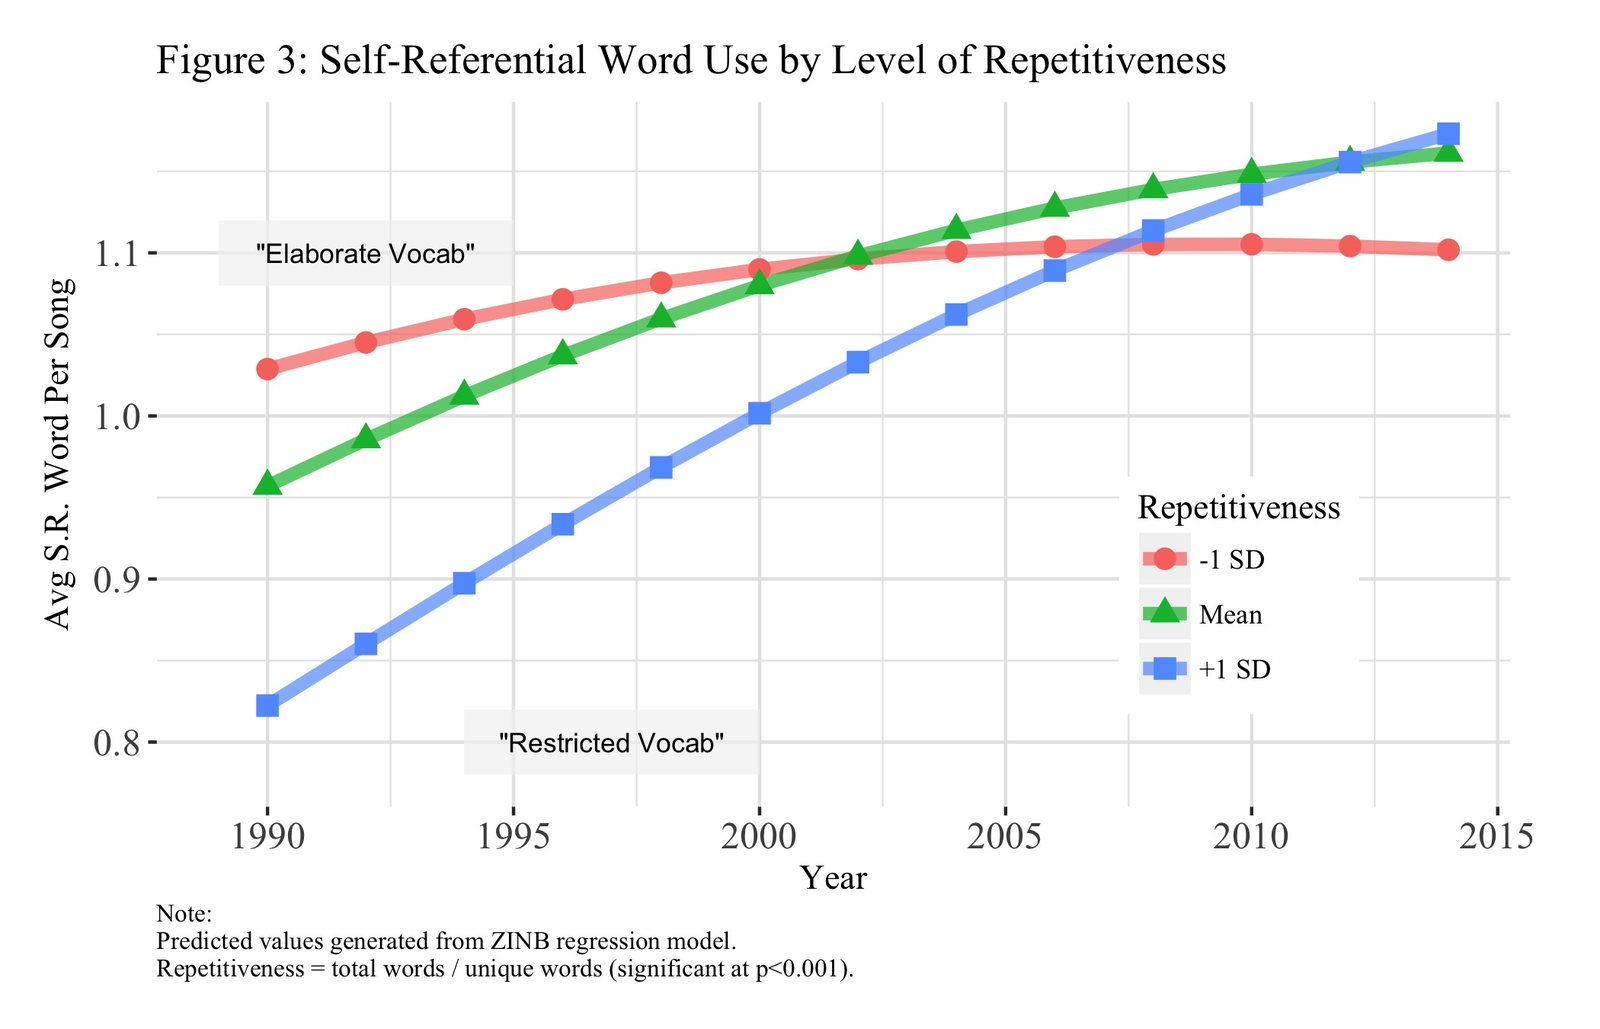
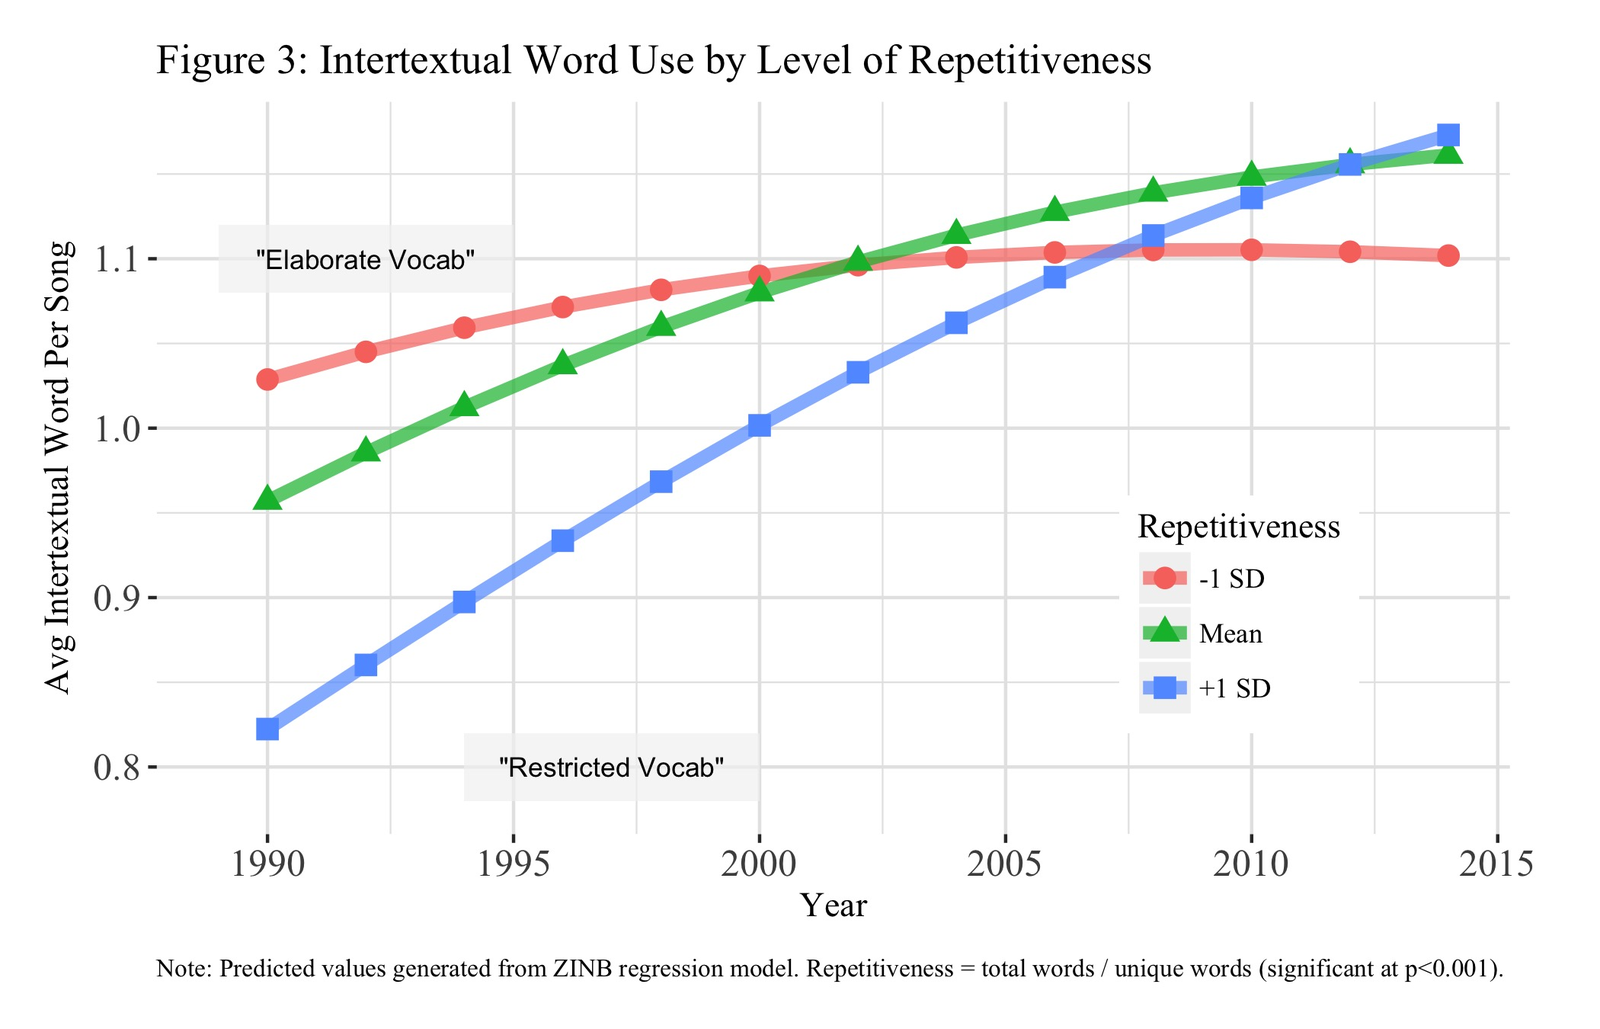
updating CM paper after submission

diff --git a/public/research/country-music/index.html b/public/research/country-music/index.html
@@ -10,11 +10,11 @@
 <meta name="referrer" content="no-referrer">
 <meta name="author" content="John A. Bernau">
 <meta name="description" content="John A. Bernau
-ABSTRACT: This article examines the rise of “self-references” in contemporary country music lyrics - descriptions of a ‘country’ lifestyle, specific styles of music consumption, or reference to famous artists. Using a dataset of 27,384 songs from 1989-2014, I show how these words constitute a meta-cultural practice that constructs and maintains genre boundaries, authenticity, and consecration. Becoming increasingly prevalent since the 1990s, self-references are also more likely to appear in debut albums, songs by Hall-of-Fame artists, and highly repetitive songs, while less likely to appear after Presidential elections.">
+ABSTRACT: This article examines how artistic communities use linguistic codes to signal group membership and police boundaries. Specifically, I examine the contemporary rise of self-reflexive intertextuality in modern country music: songs about specific styles of music consumption, other canonical artists, or “country music” itself. I argue this can be understood as a response to increased genre fuzziness and rising demographic diversity among country audiences. Using an original dataset of 27,682 songs from 1989-2014, I employ dictionary-based computational text analysis to examine this theme over time and in relation to a variety of factors, include artist gender, career status, commercial success, linguistic repetition, and political environment.">
 
-<meta property="og:title" content="Meta-Sounds in Modern Country Music: Lyrical Self-References and Boundary Work 1989-2014" />
+<meta property="og:title" content="Meta-Sounds in Modern Country Music: Lyrical Intertextuality as Boundary Work 1989-2014" />
 <meta property="og:description" content="John A. Bernau
-ABSTRACT: This article examines the rise of “self-references” in contemporary country music lyrics - descriptions of a ‘country’ lifestyle, specific styles of music consumption, or reference to famous artists. Using a dataset of 27,384 songs from 1989-2014, I show how these words constitute a meta-cultural practice that constructs and maintains genre boundaries, authenticity, and consecration. Becoming increasingly prevalent since the 1990s, self-references are also more likely to appear in debut albums, songs by Hall-of-Fame artists, and highly repetitive songs, while less likely to appear after Presidential elections." />
+ABSTRACT: This article examines how artistic communities use linguistic codes to signal group membership and police boundaries. Specifically, I examine the contemporary rise of self-reflexive intertextuality in modern country music: songs about specific styles of music consumption, other canonical artists, or “country music” itself. I argue this can be understood as a response to increased genre fuzziness and rising demographic diversity among country audiences. Using an original dataset of 27,682 songs from 1989-2014, I employ dictionary-based computational text analysis to examine this theme over time and in relation to a variety of factors, include artist gender, career status, commercial success, linguistic repetition, and political environment." />
 <meta property="og:type" content="article" />
 <meta property="og:url" content="/research/country-music/" />
 
@@ -38,7 +38,7 @@ ABSTRACT: This article examines the rise of “self-references” in contemporar
 <title>
 
 
-     Meta-Sounds in Modern Country Music: Lyrical Self-References and Boundary Work 1989-2014 
+     Meta-Sounds in Modern Country Music: Lyrical Intertextuality as Boundary Work 1989-2014 
 
 </title>
 <link rel="canonical" href="/research/country-music/">
@@ -59,11 +59,11 @@ ABSTRACT: This article examines the rise of “self-references” in contemporar
 
 
     
-    <link rel="stylesheet" href="/css/reset.css?t=2018-06-07%2018%3a43%3a48.465486%20-0400%20EDT%20m%3d%2b0.272755363">
-    <link rel="stylesheet" href="/css/pygments.css?t=2018-06-07%2018%3a43%3a48.465486%20-0400%20EDT%20m%3d%2b0.272755363">
-    <link rel="stylesheet" href="/css/main.css?t=2018-06-07%2018%3a43%3a48.465486%20-0400%20EDT%20m%3d%2b0.272755363">
+    <link rel="stylesheet" href="/css/reset.css?t=2018-06-13%2018%3a56%3a53.770756%20-0400%20EDT%20m%3d%2b0.308476131">
+    <link rel="stylesheet" href="/css/pygments.css?t=2018-06-13%2018%3a56%3a53.770756%20-0400%20EDT%20m%3d%2b0.308476131">
+    <link rel="stylesheet" href="/css/main.css?t=2018-06-13%2018%3a56%3a53.770756%20-0400%20EDT%20m%3d%2b0.308476131">
     
-        <link rel="stylesheet" href="/css/override.css?t=2018-06-07%2018%3a43%3a48.465486%20-0400%20EDT%20m%3d%2b0.272755363">
+        <link rel="stylesheet" href="/css/override.css?t=2018-06-13%2018%3a56%3a53.770756%20-0400%20EDT%20m%3d%2b0.308476131">
     
 
 
@@ -187,14 +187,14 @@ ABSTRACT: This article examines the rise of “self-references” in contemporar
         <div class="content">
             <div class="page-heading">
 
-    Meta-Sounds in Modern Country Music: Lyrical Self-References and Boundary Work 1989-2014
+    Meta-Sounds in Modern Country Music: Lyrical Intertextuality as Boundary Work 1989-2014
 
 </div>
 
             <div class="markdown">
                 <p>John A. Bernau</p>
-<p>ABSTRACT: This article examines the rise of “self-references” in contemporary country music lyrics - descriptions of a ‘country’ lifestyle, specific styles of music consumption, or reference to famous artists. Using a dataset of 27,384 songs from 1989-2014, I show how these words constitute a meta-cultural practice that constructs and maintains genre boundaries, authenticity, and consecration. Becoming increasingly prevalent since the 1990s, self-references are also more likely to appear in debut albums, songs by Hall-of-Fame artists, and highly repetitive songs, while less likely to appear after Presidential elections. In sum, today’s artists use self-references to draw and perpetuate socio-cultural boundaries.</p>
-<p><em>Under Review</em> May 2018</p>
+<p>ABSTRACT: This article examines how artistic communities use linguistic codes to signal group membership and police boundaries. Specifically, I examine the contemporary rise of self-reflexive intertextuality in modern country music: songs about specific styles of music consumption, other canonical artists, or “country music” itself. I argue this can be understood as a response to increased genre fuzziness and rising demographic diversity among country audiences. Using an original dataset of 27,682 songs from 1989-2014, I employ dictionary-based computational text analysis to examine this theme over time and in relation to a variety of factors, include artist gender, career status, commercial success, linguistic repetition, and political environment. Becoming increasingly prevalent since 1990, intertextual themes appear most often in songs by male artists, on debut albums, and by artists <em>before</em> their induction in the Country Music Hall of Fame. Furthermore, songs on the Billboard Year-End Country charts and those with a high degree of linguistic repetition are significantly more likely to evoke intertextual themes; a relationship that only emerged in the last fifteen years. In this way, lyrical intertextuality is situated as a distinctly modern solution to a perennial social problem: how do groups construct and maintain identity boundaries within a changing social environment?</p>
+<p><em>Under Review</em> June 2018</p>
 <hr />
 <p><strong>Selected Plots</strong></p>
 <p><img src="/research/cm_sr1.jpg" /> <img src="/research/cm_sr2.jpg" /> <img src="/research/cm_sr3.jpg" /></p>

diff --git a/content/research/2018-04-17-country-music.html b/content/research/2018-04-17-country-music.html
@@ -1,5 +1,5 @@
 ---
-title: "Meta-Sounds in Modern Country Music: Lyrical Self-References and Boundary Work 1989-2014"
+title: "Meta-Sounds in Modern Country Music: Lyrical Intertextuality as Boundary Work 1989-2014"
 author: John A. Bernau
 date: '2018-04-17'
 slug: country-music
@@ -10,8 +10,8 @@ tags: []
 
 
 <p>John A. Bernau</p>
-<p>ABSTRACT: This article examines the rise of “self-references” in contemporary country music lyrics - descriptions of a ‘country’ lifestyle, specific styles of music consumption, or reference to famous artists. Using a dataset of 27,384 songs from 1989-2014, I show how these words constitute a meta-cultural practice that constructs and maintains genre boundaries, authenticity, and consecration. Becoming increasingly prevalent since the 1990s, self-references are also more likely to appear in debut albums, songs by Hall-of-Fame artists, and highly repetitive songs, while less likely to appear after Presidential elections. In sum, today’s artists use self-references to draw and perpetuate socio-cultural boundaries.</p>
-<p><em>Under Review</em> May 2018</p>
+<p>ABSTRACT: This article examines how artistic communities use linguistic codes to signal group membership and police boundaries. Specifically, I examine the contemporary rise of self-reflexive intertextuality in modern country music: songs about specific styles of music consumption, other canonical artists, or “country music” itself. I argue this can be understood as a response to increased genre fuzziness and rising demographic diversity among country audiences. Using an original dataset of 27,682 songs from 1989-2014, I employ dictionary-based computational text analysis to examine this theme over time and in relation to a variety of factors, include artist gender, career status, commercial success, linguistic repetition, and political environment. Becoming increasingly prevalent since 1990, intertextual themes appear most often in songs by male artists, on debut albums, and by artists <em>before</em> their induction in the Country Music Hall of Fame. Furthermore, songs on the Billboard Year-End Country charts and those with a high degree of linguistic repetition are significantly more likely to evoke intertextual themes; a relationship that only emerged in the last fifteen years. In this way, lyrical intertextuality is situated as a distinctly modern solution to a perennial social problem: how do groups construct and maintain identity boundaries within a changing social environment?</p>
+<p><em>Under Review</em> June 2018</p>
 <hr />
 <p><strong>Selected Plots</strong></p>
 <p><img src="/research/cm_sr1.jpg" /> <img src="/research/cm_sr2.jpg" /> <img src="/research/cm_sr3.jpg" /></p>

diff --git a/public/xresearch/index.html b/public/xresearch/index.html
@@ -10,7 +10,7 @@
 <meta name="referrer" content="no-referrer">
 <meta name="author" content="John A. Bernau">
 <meta name="description" content=" Publications Under Review
- May 2018 - Meta-Sounds in Modern Country Music
+ June 2018 - Meta-Sounds in Modern Country Music
  March 2018 - How Do Modern States Culturally Respond to Disasters?  Manuscripts in Progress
  Sad Songs &amp; Waltzes: Country Music Sentiment and Chart Performance
   Dissertation Research
@@ -18,7 +18,7 @@
 
 <meta property="og:title" content="Research" />
 <meta property="og:description" content=" Publications Under Review
- May 2018 - Meta-Sounds in Modern Country Music
+ June 2018 - Meta-Sounds in Modern Country Music
  March 2018 - How Do Modern States Culturally Respond to Disasters?  Manuscripts in Progress
  Sad Songs &amp; Waltzes: Country Music Sentiment and Chart Performance
   Dissertation Research
@@ -67,11 +67,11 @@
 
 
     
-    <link rel="stylesheet" href="/css/reset.css?t=2018-06-07%2018%3a43%3a48.474031%20-0400%20EDT%20m%3d%2b0.281298526">
-    <link rel="stylesheet" href="/css/pygments.css?t=2018-06-07%2018%3a43%3a48.474031%20-0400%20EDT%20m%3d%2b0.281298526">
-    <link rel="stylesheet" href="/css/main.css?t=2018-06-07%2018%3a43%3a48.474031%20-0400%20EDT%20m%3d%2b0.281298526">
+    <link rel="stylesheet" href="/css/reset.css?t=2018-06-13%2018%3a56%3a53.772194%20-0400%20EDT%20m%3d%2b0.309914121">
+    <link rel="stylesheet" href="/css/pygments.css?t=2018-06-13%2018%3a56%3a53.772194%20-0400%20EDT%20m%3d%2b0.309914121">
+    <link rel="stylesheet" href="/css/main.css?t=2018-06-13%2018%3a56%3a53.772194%20-0400%20EDT%20m%3d%2b0.309914121">
     
-        <link rel="stylesheet" href="/css/override.css?t=2018-06-07%2018%3a43%3a48.474031%20-0400%20EDT%20m%3d%2b0.281298526">
+        <link rel="stylesheet" href="/css/override.css?t=2018-06-13%2018%3a56%3a53.772194%20-0400%20EDT%20m%3d%2b0.309914121">
     
 
 
@@ -205,7 +205,7 @@
 <p><strong>Publications Under Review</strong></p>
 
 <ul>
-<li>May 2018  - <a href="/research/country-music">Meta-Sounds in Modern Country Music</a><br /></li>
+<li>June 2018  - <a href="/research/country-music">Meta-Sounds in Modern Country Music</a><br /></li>
 <li>March 2018  - <a href="/research/sympathetic-leviathan">How Do Modern States Culturally Respond to Disasters?</a></li>
 </ul>
 

diff --git a/public/research/index.html b/public/research/index.html
@@ -54,11 +54,11 @@
 
 
     
-    <link rel="stylesheet" href="/css/reset.css?t=2018-06-07%2018%3a43%3a48.479619%20-0400%20EDT%20m%3d%2b0.286885524">
-    <link rel="stylesheet" href="/css/pygments.css?t=2018-06-07%2018%3a43%3a48.479619%20-0400%20EDT%20m%3d%2b0.286885524">
-    <link rel="stylesheet" href="/css/main.css?t=2018-06-07%2018%3a43%3a48.479619%20-0400%20EDT%20m%3d%2b0.286885524">
+    <link rel="stylesheet" href="/css/reset.css?t=2018-06-13%2018%3a56%3a53.778512%20-0400%20EDT%20m%3d%2b0.316231350">
+    <link rel="stylesheet" href="/css/pygments.css?t=2018-06-13%2018%3a56%3a53.778512%20-0400%20EDT%20m%3d%2b0.316231350">
+    <link rel="stylesheet" href="/css/main.css?t=2018-06-13%2018%3a56%3a53.778512%20-0400%20EDT%20m%3d%2b0.316231350">
     
-        <link rel="stylesheet" href="/css/override.css?t=2018-06-07%2018%3a43%3a48.479619%20-0400%20EDT%20m%3d%2b0.286885524">
+        <link rel="stylesheet" href="/css/override.css?t=2018-06-13%2018%3a56%3a53.778512%20-0400%20EDT%20m%3d%2b0.316231350">
     
 
 
@@ -193,7 +193,7 @@
             <nav class="section-items">
                 <ul>
                 
-                    <li><a href="/research/country-music/">Meta-Sounds in Modern Country Music: Lyrical Self-References and Boundary Work 1989-2014</a></li>
+                    <li><a href="/research/country-music/">Meta-Sounds in Modern Country Music: Lyrical Intertextuality as Boundary Work 1989-2014</a></li>
                 
                     <li><a href="/research/sympathetic-leviathan/">The Sympathetic Leviathan: How Do Modern States Culturally Respond to Disasters</a></li>
                 

diff --git a/public/blog/ajs_v123n4/index.html b/public/blog/ajs_v123n4/index.html
@@ -59,11 +59,11 @@ Summary: The author uses ethnographic data to examine the role of emotions in th
 
 
     
-    <link rel="stylesheet" href="/css/reset.css?t=2018-06-07%2018%3a43%3a48.461626%20-0400%20EDT%20m%3d%2b0.268896399">
-    <link rel="stylesheet" href="/css/pygments.css?t=2018-06-07%2018%3a43%3a48.461626%20-0400%20EDT%20m%3d%2b0.268896399">
-    <link rel="stylesheet" href="/css/main.css?t=2018-06-07%2018%3a43%3a48.461626%20-0400%20EDT%20m%3d%2b0.268896399">
+    <link rel="stylesheet" href="/css/reset.css?t=2018-06-13%2018%3a56%3a53.760445%20-0400%20EDT%20m%3d%2b0.298165825">
+    <link rel="stylesheet" href="/css/pygments.css?t=2018-06-13%2018%3a56%3a53.760445%20-0400%20EDT%20m%3d%2b0.298165825">
+    <link rel="stylesheet" href="/css/main.css?t=2018-06-13%2018%3a56%3a53.760445%20-0400%20EDT%20m%3d%2b0.298165825">
     
-        <link rel="stylesheet" href="/css/override.css?t=2018-06-07%2018%3a43%3a48.461626%20-0400%20EDT%20m%3d%2b0.268896399">
+        <link rel="stylesheet" href="/css/override.css?t=2018-06-13%2018%3a56%3a53.760445%20-0400%20EDT%20m%3d%2b0.298165825">
     
 
 

diff --git a/public/blog/cherlin2010/index.html b/public/blog/cherlin2010/index.html
@@ -61,11 +61,11 @@ Cherlin’s discussion of marriage in the 1950s and 1960s overlays much of popul
 
 
     
-    <link rel="stylesheet" href="/css/reset.css?t=2018-06-07%2018%3a43%3a48.454469%20-0400%20EDT%20m%3d%2b0.261739843">
-    <link rel="stylesheet" href="/css/pygments.css?t=2018-06-07%2018%3a43%3a48.454469%20-0400%20EDT%20m%3d%2b0.261739843">
-    <link rel="stylesheet" href="/css/main.css?t=2018-06-07%2018%3a43%3a48.454469%20-0400%20EDT%20m%3d%2b0.261739843">
+    <link rel="stylesheet" href="/css/reset.css?t=2018-06-13%2018%3a56%3a53.758397%20-0400%20EDT%20m%3d%2b0.296117112">
+    <link rel="stylesheet" href="/css/pygments.css?t=2018-06-13%2018%3a56%3a53.758397%20-0400%20EDT%20m%3d%2b0.296117112">
+    <link rel="stylesheet" href="/css/main.css?t=2018-06-13%2018%3a56%3a53.758397%20-0400%20EDT%20m%3d%2b0.296117112">
     
-        <link rel="stylesheet" href="/css/override.css?t=2018-06-07%2018%3a43%3a48.454469%20-0400%20EDT%20m%3d%2b0.261739843">
+        <link rel="stylesheet" href="/css/override.css?t=2018-06-13%2018%3a56%3a53.758397%20-0400%20EDT%20m%3d%2b0.296117112">
     
 
 

diff --git a/public/code/baylor/index.html b/public/code/baylor/index.html
@@ -61,11 +61,11 @@ require(&quot;tidyverse&quot;) require(&quot;foreign&quot;) require(&quot;psych&
 
 
     
-    <link rel="stylesheet" href="/css/reset.css?t=2018-06-07%2018%3a43%3a48.471379%20-0400%20EDT%20m%3d%2b0.278647569">
-    <link rel="stylesheet" href="/css/pygments.css?t=2018-06-07%2018%3a43%3a48.471379%20-0400%20EDT%20m%3d%2b0.278647569">
-    <link rel="stylesheet" href="/css/main.css?t=2018-06-07%2018%3a43%3a48.471379%20-0400%20EDT%20m%3d%2b0.278647569">
+    <link rel="stylesheet" href="/css/reset.css?t=2018-06-13%2018%3a56%3a53.770842%20-0400%20EDT%20m%3d%2b0.308561840">
+    <link rel="stylesheet" href="/css/pygments.css?t=2018-06-13%2018%3a56%3a53.770842%20-0400%20EDT%20m%3d%2b0.308561840">
+    <link rel="stylesheet" href="/css/main.css?t=2018-06-13%2018%3a56%3a53.770842%20-0400%20EDT%20m%3d%2b0.308561840">
     
-        <link rel="stylesheet" href="/css/override.css?t=2018-06-07%2018%3a43%3a48.471379%20-0400%20EDT%20m%3d%2b0.278647569">
+        <link rel="stylesheet" href="/css/override.css?t=2018-06-13%2018%3a56%3a53.770842%20-0400%20EDT%20m%3d%2b0.308561840">
     
 
 

diff --git a/public/research/sympathetic-leviathan/index.html b/public/research/sympathetic-leviathan/index.html
@@ -59,11 +59,11 @@ ABSTRACT: While events are central to the sociology of the state, natural disast
 
 
     
-    <link rel="stylesheet" href="/css/reset.css?t=2018-06-07%2018%3a43%3a48.474783%20-0400%20EDT%20m%3d%2b0.282051269">
-    <link rel="stylesheet" href="/css/pygments.css?t=2018-06-07%2018%3a43%3a48.474783%20-0400%20EDT%20m%3d%2b0.282051269">
-    <link rel="stylesheet" href="/css/main.css?t=2018-06-07%2018%3a43%3a48.474783%20-0400%20EDT%20m%3d%2b0.282051269">
+    <link rel="stylesheet" href="/css/reset.css?t=2018-06-13%2018%3a56%3a53.774728%20-0400%20EDT%20m%3d%2b0.312448126">
+    <link rel="stylesheet" href="/css/pygments.css?t=2018-06-13%2018%3a56%3a53.774728%20-0400%20EDT%20m%3d%2b0.312448126">
+    <link rel="stylesheet" href="/css/main.css?t=2018-06-13%2018%3a56%3a53.774728%20-0400%20EDT%20m%3d%2b0.312448126">
     
-        <link rel="stylesheet" href="/css/override.css?t=2018-06-07%2018%3a43%3a48.474783%20-0400%20EDT%20m%3d%2b0.282051269">
+        <link rel="stylesheet" href="/css/override.css?t=2018-06-13%2018%3a56%3a53.774728%20-0400%20EDT%20m%3d%2b0.312448126">
     
 
 

diff --git a/public/teaching/sor/index.html b/public/teaching/sor/index.html
@@ -59,11 +59,11 @@ This course offers an introduction to the sociological study of religion. As a d
 
 
     
-    <link rel="stylesheet" href="/css/reset.css?t=2018-06-07%2018%3a43%3a48.471248%20-0400%20EDT%20m%3d%2b0.278516766">
-    <link rel="stylesheet" href="/css/pygments.css?t=2018-06-07%2018%3a43%3a48.471248%20-0400%20EDT%20m%3d%2b0.278516766">
-    <link rel="stylesheet" href="/css/main.css?t=2018-06-07%2018%3a43%3a48.471248%20-0400%20EDT%20m%3d%2b0.278516766">
+    <link rel="stylesheet" href="/css/reset.css?t=2018-06-13%2018%3a56%3a53.772126%20-0400%20EDT%20m%3d%2b0.309845946">
+    <link rel="stylesheet" href="/css/pygments.css?t=2018-06-13%2018%3a56%3a53.772126%20-0400%20EDT%20m%3d%2b0.309845946">
+    <link rel="stylesheet" href="/css/main.css?t=2018-06-13%2018%3a56%3a53.772126%20-0400%20EDT%20m%3d%2b0.309845946">
     
-        <link rel="stylesheet" href="/css/override.css?t=2018-06-07%2018%3a43%3a48.471248%20-0400%20EDT%20m%3d%2b0.278516766">
+        <link rel="stylesheet" href="/css/override.css?t=2018-06-13%2018%3a56%3a53.772126%20-0400%20EDT%20m%3d%2b0.309845946">
     
 
 

diff --git a/public/xcode/index.html b/public/xcode/index.html
@@ -69,11 +69,11 @@ Copyright &copy; 2018 John A. Bernau " />
 
 
     
-    <link rel="stylesheet" href="/css/reset.css?t=2018-06-07%2018%3a43%3a48.462104%20-0400%20EDT%20m%3d%2b0.269373956">
-    <link rel="stylesheet" href="/css/pygments.css?t=2018-06-07%2018%3a43%3a48.462104%20-0400%20EDT%20m%3d%2b0.269373956">
-    <link rel="stylesheet" href="/css/main.css?t=2018-06-07%2018%3a43%3a48.462104%20-0400%20EDT%20m%3d%2b0.269373956">
+    <link rel="stylesheet" href="/css/reset.css?t=2018-06-13%2018%3a56%3a53.762991%20-0400%20EDT%20m%3d%2b0.300711792">
+    <link rel="stylesheet" href="/css/pygments.css?t=2018-06-13%2018%3a56%3a53.762991%20-0400%20EDT%20m%3d%2b0.300711792">
+    <link rel="stylesheet" href="/css/main.css?t=2018-06-13%2018%3a56%3a53.762991%20-0400%20EDT%20m%3d%2b0.300711792">
     
-        <link rel="stylesheet" href="/css/override.css?t=2018-06-07%2018%3a43%3a48.462104%20-0400%20EDT%20m%3d%2b0.269373956">
+        <link rel="stylesheet" href="/css/override.css?t=2018-06-13%2018%3a56%3a53.762991%20-0400%20EDT%20m%3d%2b0.300711792">
     
 
 

diff --git a/public/xteaching/index.html b/public/xteaching/index.html
@@ -83,11 +83,11 @@ SOC 389: Cont. Chinese Culture" />
 
 
     
-    <link rel="stylesheet" href="/css/reset.css?t=2018-06-07%2018%3a43%3a48.472149%20-0400%20EDT%20m%3d%2b0.279416889">
-    <link rel="stylesheet" href="/css/pygments.css?t=2018-06-07%2018%3a43%3a48.472149%20-0400%20EDT%20m%3d%2b0.279416889">
-    <link rel="stylesheet" href="/css/main.css?t=2018-06-07%2018%3a43%3a48.472149%20-0400%20EDT%20m%3d%2b0.279416889">
+    <link rel="stylesheet" href="/css/reset.css?t=2018-06-13%2018%3a56%3a53.774668%20-0400%20EDT%20m%3d%2b0.312388630">
+    <link rel="stylesheet" href="/css/pygments.css?t=2018-06-13%2018%3a56%3a53.774668%20-0400%20EDT%20m%3d%2b0.312388630">
+    <link rel="stylesheet" href="/css/main.css?t=2018-06-13%2018%3a56%3a53.774668%20-0400%20EDT%20m%3d%2b0.312388630">
     
-        <link rel="stylesheet" href="/css/override.css?t=2018-06-07%2018%3a43%3a48.472149%20-0400%20EDT%20m%3d%2b0.279416889">
+        <link rel="stylesheet" href="/css/override.css?t=2018-06-13%2018%3a56%3a53.774668%20-0400%20EDT%20m%3d%2b0.312388630">
     
 
 

diff --git a/public/code/dataviz1/index.html b/public/code/dataviz1/index.html
@@ -73,11 +73,11 @@ Part 1 includes:
 
 
     
-    <link rel="stylesheet" href="/css/reset.css?t=2018-06-07%2018%3a43%3a48.462143%20-0400%20EDT%20m%3d%2b0.269413146">
-    <link rel="stylesheet" href="/css/pygments.css?t=2018-06-07%2018%3a43%3a48.462143%20-0400%20EDT%20m%3d%2b0.269413146">
-    <link rel="stylesheet" href="/css/main.css?t=2018-06-07%2018%3a43%3a48.462143%20-0400%20EDT%20m%3d%2b0.269413146">
+    <link rel="stylesheet" href="/css/reset.css?t=2018-06-13%2018%3a56%3a53.763387%20-0400%20EDT%20m%3d%2b0.301107839">
+    <link rel="stylesheet" href="/css/pygments.css?t=2018-06-13%2018%3a56%3a53.763387%20-0400%20EDT%20m%3d%2b0.301107839">
+    <link rel="stylesheet" href="/css/main.css?t=2018-06-13%2018%3a56%3a53.763387%20-0400%20EDT%20m%3d%2b0.301107839">
     
-        <link rel="stylesheet" href="/css/override.css?t=2018-06-07%2018%3a43%3a48.462143%20-0400%20EDT%20m%3d%2b0.269413146">
+        <link rel="stylesheet" href="/css/override.css?t=2018-06-13%2018%3a56%3a53.763387%20-0400%20EDT%20m%3d%2b0.301107839">
     
 
 
